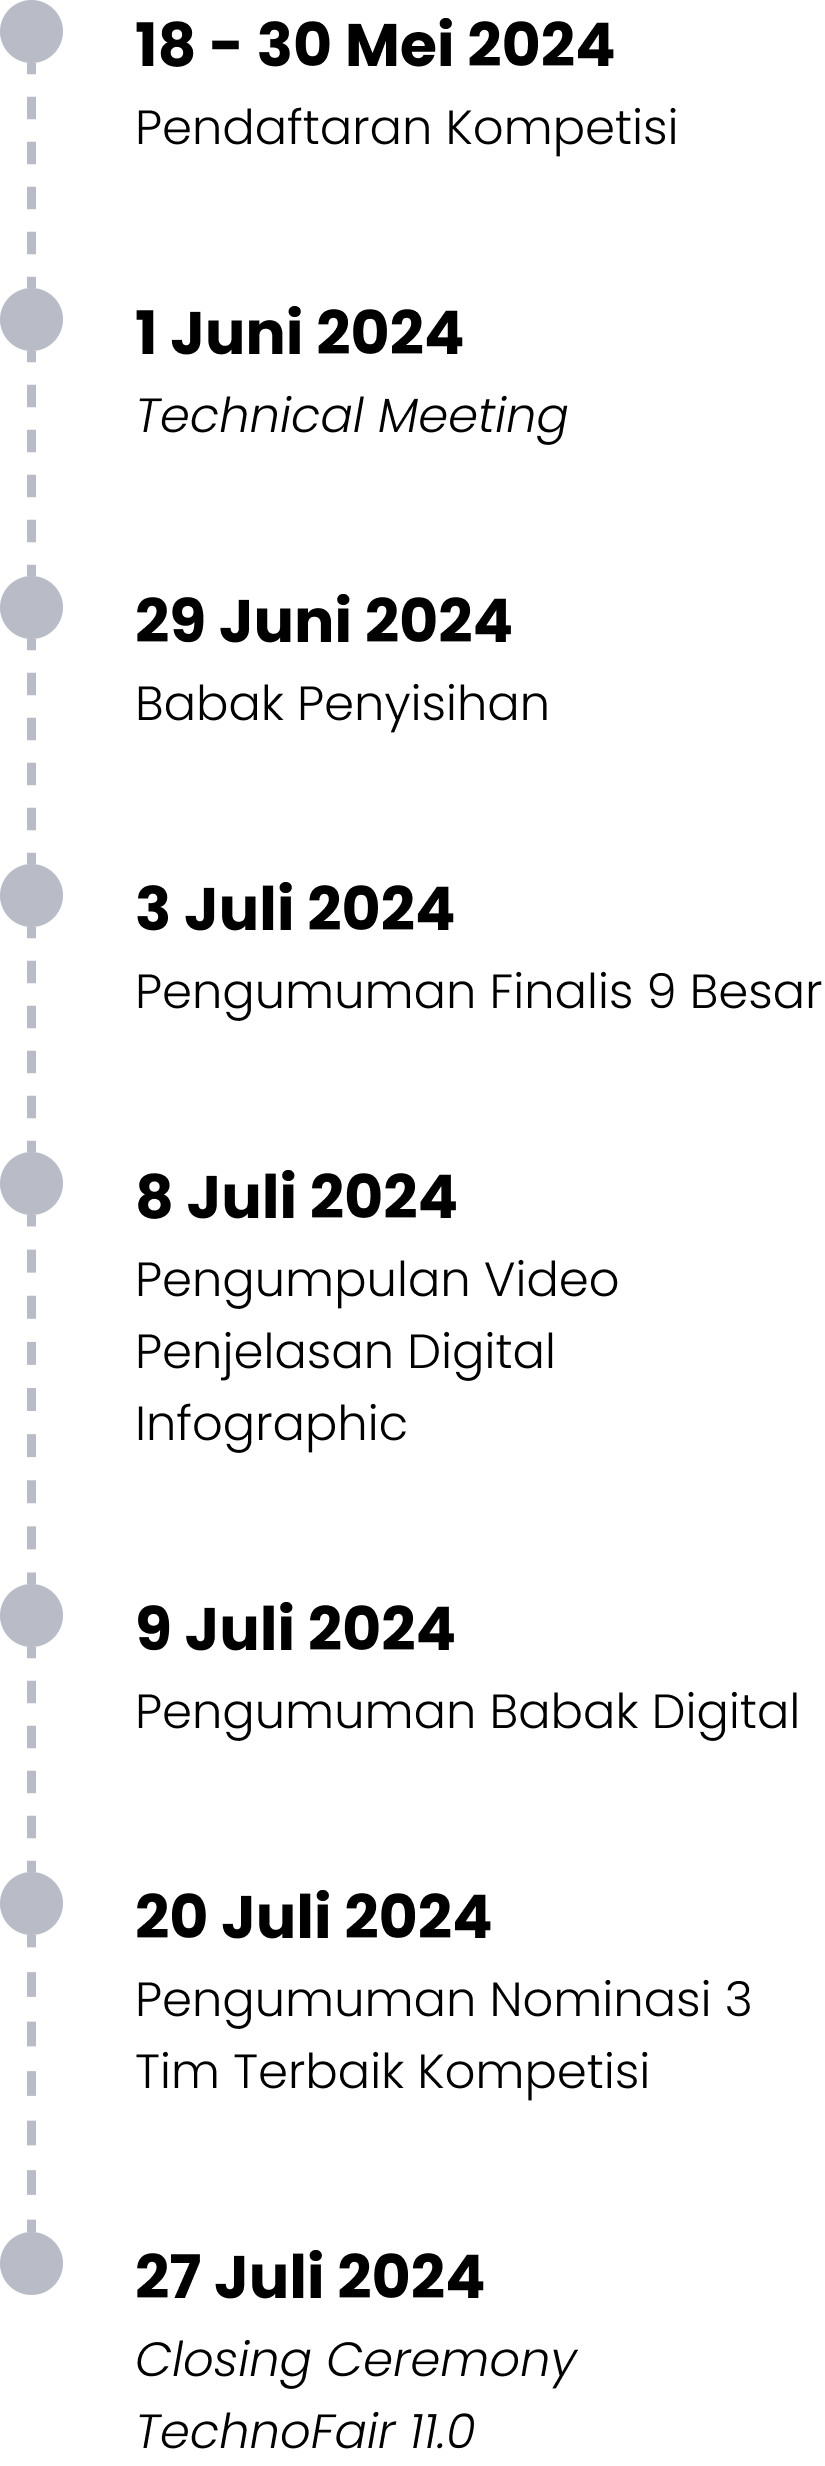
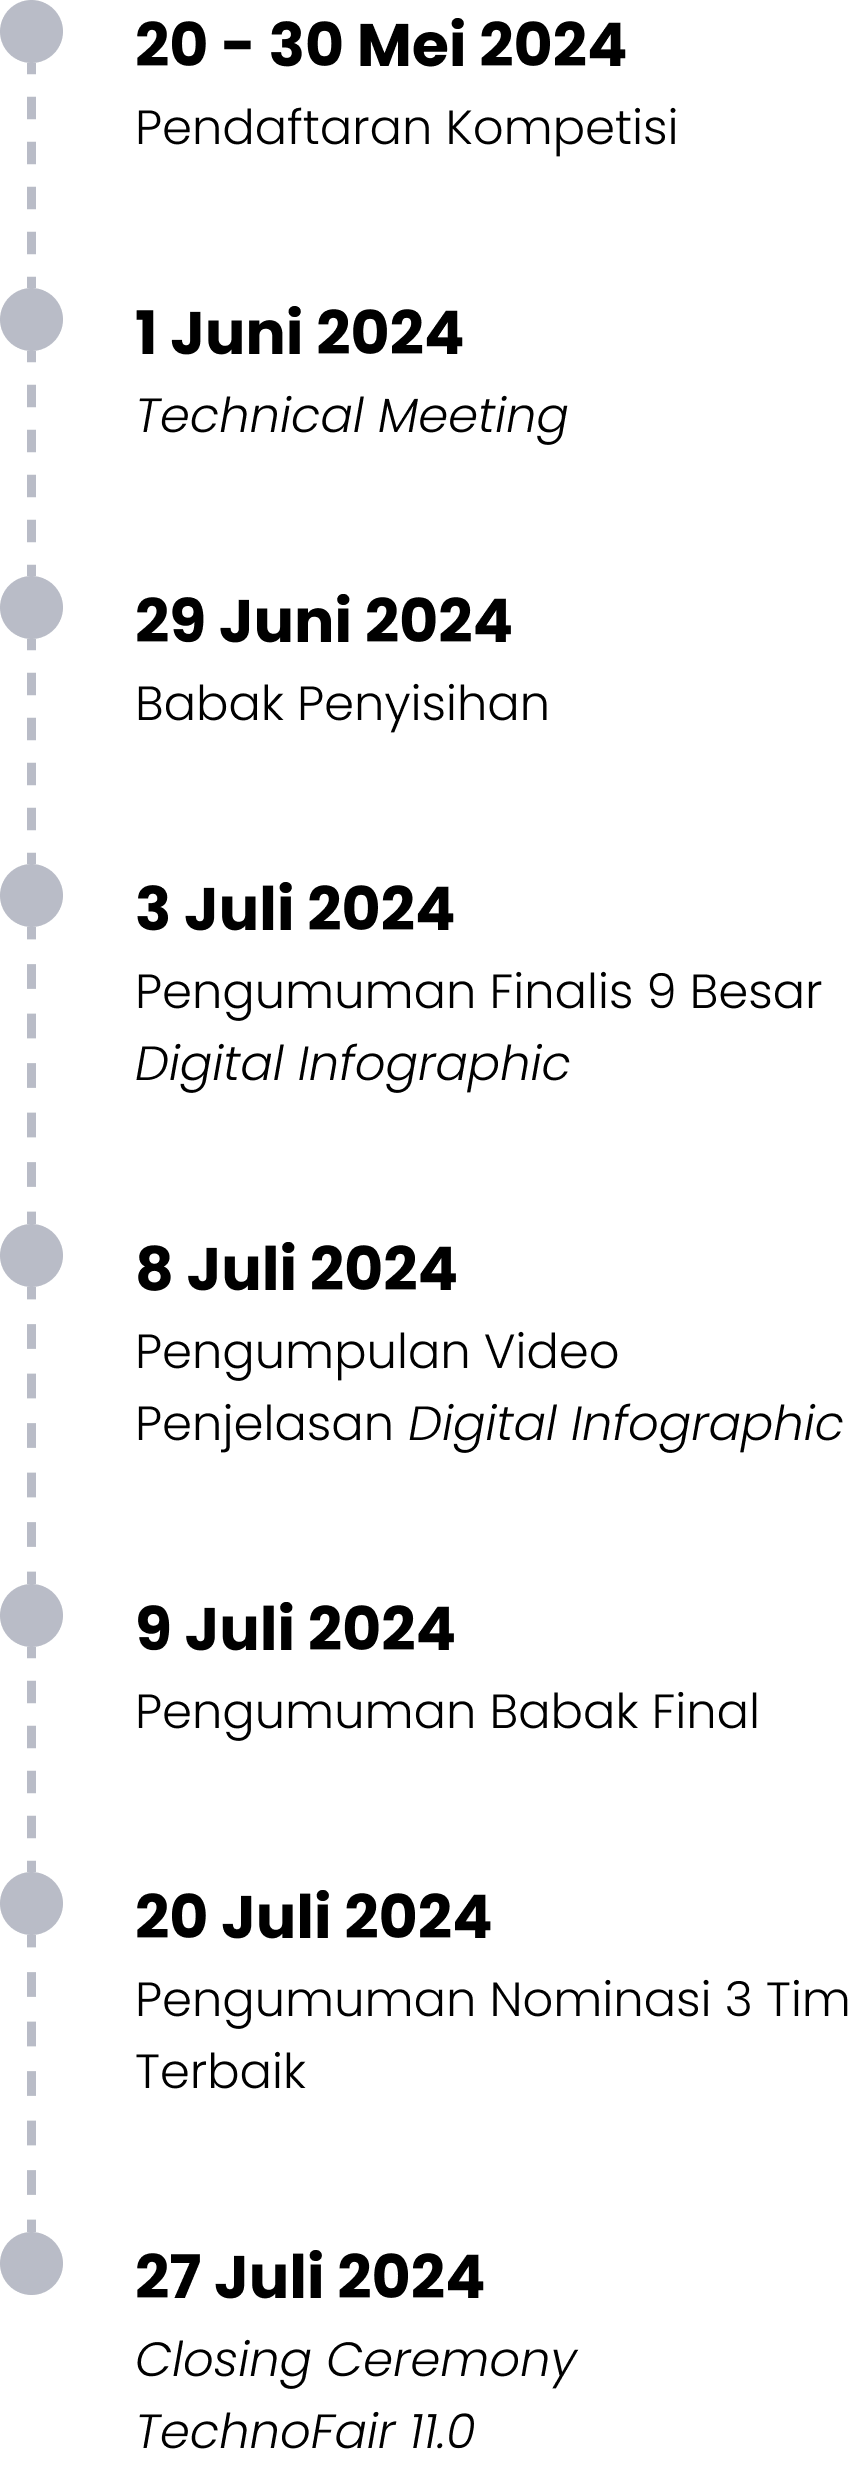
update tanggal

diff --git a/src/components/technofair/details/DigitalInfo.tsx b/src/components/technofair/details/DigitalInfo.tsx
@@ -35,7 +35,7 @@ export default function DigitalInfoPage() {
                 </div>
                 <div className={`text-[#212427] text-lg italic font-light ${poppins.className}`}>&quot;Dynamic Collaboration: Pioneering Future Technologies&quot;</div>
               </div>
-              <div className={`text-[#212427] text-xl font-semibold ${poppins.className} py-2`}>Sabtu, 01 Juni 2024</div>
+              <div className={`text-[#212427] text-xl font-semibold ${poppins.className} py-2`}>Senin, 20 Mei 2024</div>
               <div className="">
                 <p className={`text-lg font-normal ${poppins.className} text-[#212427]`}>
                   Digital Infographic Competition merupakan kompetisi dimana para peserta membuat sebuah poster Digital infografis yang mengandung pesan atau informasi mengenai data-data sesuai tema yang diberikan{' '}
@@ -48,7 +48,7 @@ export default function DigitalInfoPage() {
                 >
                   <p className={`text-[#6C6A67] ${poppins.className} text-base font-semibold`}>Hubungi Kami</p>
                 </Link>
-                <Link href={'https://docs.google.com/forms/d/1745ixauhKbSD-PpMf5rYzE19fxZPiERGV8osbYqX3WA/edit'} className="w-48 h-14 bg-[#21B573] rounded-[16px] border flex justify-center items-center hover:bg-[#1C9760]">
+                <Link href={'https://bit.ly/RegistrationDICTechnoFair11-0'} className="w-48 h-14 bg-[#21B573] rounded-[16px] border flex justify-center items-center hover:bg-[#1C9760]">
                   <p className={`text-[#FEFDFC] ${poppins.className} text-base font-semibold`}>Daftar Sekarang</p>
                 </Link>
                 <div className="mt-9 text-base text-[#212427]">
@@ -89,11 +89,14 @@ export default function DigitalInfoPage() {
                     </div>
                   </div>
                 </div>
-                <Link href={'https://drive.google.com/file/d/1TQ0idskCjTPrR1B6pPyO5zeJOv6y9vM_/view?usp=drive_link'} className="">
+                <Link href={'https://drive.google.com/file/d/1iJalon_mEB8cb0dO0bgZHlM3LWowoEBg/view?usp=drive_link'} className="">
                   <div className="w-72 h-14 bg-[#F7F9FA] rounded-[8px] border-[#B9BCC7] border shadow-lg flex justify-center items-center hover:bg-[#eaeaea]">
                     <p className={`text-center text-[#212427] ${poppins.className}`}>Lihat Rulebook</p>
                   </div>
                 </Link>
+                <div className="py-7">
+                  <Image src={'/technofair/timeline-digitalinfo.png'} alt='timeline digital info' width={289} height={822}/>
+                </div>
               </div>
               <div className="w-5/6">
                 <div className="">
@@ -342,7 +345,7 @@ export default function DigitalInfoPage() {
               <p className={`${poppins.className} text-base italic font-light`}>&quot;Dynamic Collaboration: Pioneering Future Technologies&quot;</p>
             </div>
             <div className="text-[#262626] py-3">
-              <p className={`${poppins.className} text-sm font-medium`}>Sabtu, 01 Juni 2024</p>
+              <p className={`${poppins.className} text-sm font-medium`}>Senin, 20 Mei 2024</p>
             </div>
             <div className="text-sm text-[#212427]">
               <p>
@@ -358,16 +361,19 @@ export default function DigitalInfoPage() {
               >
                 <p className={`text-[#6C6A67] ${poppins.className} text-base font-semibold`}>Hubungi Kami</p>
               </Link>
-              <Link href={'https://docs.google.com/forms/d/1745ixauhKbSD-PpMf5rYzE19fxZPiERGV8osbYqX3WA/edit'} className="w-48 h-14 bg-[#21B573] rounded-[8px] border flex justify-center items-center hover:bg-[#1C9760]">
+              <Link href={'https://bit.ly/RegistrationDICTechnoFair11-0'} className="w-48 h-14 bg-[#21B573] rounded-[8px] border flex justify-center items-center hover:bg-[#1C9760]">
                 <p className={`text-[#FEFDFC] ${poppins.className} text-base font-semibold`}>Daftar Sekarang</p>
               </Link>
             </div>
             <Link
-              href={'https://drive.google.com/file/d/1TQ0idskCjTPrR1B6pPyO5zeJOv6y9vM_/view?usp=drive_link'}
+              href={'https://drive.google.com/file/d/1iJalon_mEB8cb0dO0bgZHlM3LWowoEBg/view?usp=drive_link'}
               className={`w-full h-14 bg-[#FEFDFC] ${poppins.className} rounded-[8px] border flex justify-center items-center hover:bg-[#FAF9F7] shadow-md`}
             >
               <p className="text-[#6c6a67]">Lihat Rulebook</p>
             </Link>
+            <div className="py-3">
+              <Image src={'/technofair/timeline-digitalinfo.png'} alt='timeline digital info' width={259} height={768}/>
+            </div>
           </div>
           <div className="">
             <div className="py-10 px-5">

diff --git a/src/components/technofair/details/UIUXCompe.tsx b/src/components/technofair/details/UIUXCompe.tsx
@@ -35,7 +35,7 @@ export default function UIUXCompePage() {
                 </div>
                 <div className={`text-[#212427] text-lg italic font-light ${poppins.className}`}>Enhancing Modern Visual with UI/UX Design</div>
               </div>
-              <div className={`text-[#212427] text-xl font-semibold ${poppins.className} py-2`}>Sabtu, 01 Juni 2024</div>
+              <div className={`text-[#212427] text-xl font-semibold ${poppins.className} py-2`}>Senin, 20 Mei 2024</div>
               <div className="">
                 <p className={`text-lg font-normal ${poppins.className} text-[#212427]`}>
                   <em>UI/UX Design Competition</em> adalah salah satu kompetisi untuk menunjukkan bakat dan kemampuan peserta dalam membangun desain antarmuka sistem/produk yang berorientasi kepada kenyamanan dan kemudahan pengguna (user)
@@ -49,7 +49,7 @@ export default function UIUXCompePage() {
                 >
                   <p className={`text-[#6C6A67] ${poppins.className} text-base font-semibold`}>Hubungi Kami</p>
                 </Link>
-                <Link href={'https://docs.google.com/forms/d/1SNT6S5bN1iLsRDJDZohjhraXtT2-uiUggg090eQu3mQ/viewform?edit_requested=true'} className="w-48 h-14 bg-[#21B573] rounded-[16px] border flex justify-center items-center hover:bg-[#1C9760]">
+                <Link href={'https://bit.ly/RegistrationUIUXTechnoFair11-0'} className="w-48 h-14 bg-[#21B573] rounded-[16px] border flex justify-center items-center hover:bg-[#1C9760]">
                   <p className={`text-[#FEFDFC] ${poppins.className} text-base font-semibold`}>Daftar Sekarang</p>
                 </Link>
                 <div className="mt-9 text-base text-[#212427]">
@@ -86,11 +86,14 @@ export default function UIUXCompePage() {
                     </div>
                   </div>
                 </div>
-                <Link href={'https://drive.google.com/drive/folders/1E-AU-L_NfF9NMD1DtIVYQLuylwbDpUuY?usp=drive_link'} className="">
+                <Link href={'https://drive.google.com/file/d/1Y-MZrxtNFelT7wPA3VEKScldD45dMt_1/view?usp=drive_link'} className="">
                   <div className="w-72 h-14 bg-[#F7F9FA] rounded-[8px] border-[#B9BCC7] border shadow-lg flex justify-center items-center hover:bg-[#eaeaea]">
                     <p className={`text-center text-[#212427] ${poppins.className}`}>Lihat Rulebook</p>
                   </div>
                 </Link>
+                <div className="py-7">
+                  <Image src={'/technofair/timeline-uiuxcompe.png'} alt='timeline uiux' width={289} height={765}/>
+                </div>
               </div>
               <div className="w-5/6">
                 <div className="">
@@ -357,7 +360,7 @@ export default function UIUXCompePage() {
               <p className={`${poppins.className} text-base italic font-light`}>Enhancing Modern Visual with UI/UX Design</p>
             </div>
             <div className="text-[#262626] py-3">
-              <p className={`${poppins.className} text-sm font-medium`}>Sabtu, 01 Juni 2024</p>
+              <p className={`${poppins.className} text-sm font-medium`}>Senin, 20 Mei 2024</p>
             </div>
             <div className="text-sm text-[#212427]">
               <p>
@@ -373,16 +376,19 @@ export default function UIUXCompePage() {
               >
                 <p className={`text-[#6C6A67] ${poppins.className} text-base font-semibold`}>Hubungi Kami</p>
               </Link>
-              <Link href={'https://docs.google.com/forms/d/1SNT6S5bN1iLsRDJDZohjhraXtT2-uiUggg090eQu3mQ/viewform?edit_requested=true'} className="w-48 h-14 bg-[#21B573] rounded-[8px] border flex justify-center items-center hover:bg-[#1C9760]">
+              <Link href={'https://bit.ly/RegistrationUIUXTechnoFair11-0'} className="w-48 h-14 bg-[#21B573] rounded-[8px] border flex justify-center items-center hover:bg-[#1C9760]">
                 <p className={`text-[#FEFDFC] ${poppins.className} text-base font-semibold`}>Daftar Sekarang</p>
               </Link>
             </div>
             <Link
-              href={'https://drive.google.com/drive/folders/1E-AU-L_NfF9NMD1DtIVYQLuylwbDpUuY?usp=drive_link'}
+              href={'https://drive.google.com/file/d/1Y-MZrxtNFelT7wPA3VEKScldD45dMt_1/view?usp=drive_link'}
               className={`w-full h-14 bg-[#FEFDFC] ${poppins.className} rounded-[8px] border flex justify-center items-center hover:bg-[#FAF9F7] shadow-md`}
             >
               <p className="text-[#6c6a67]">Lihat Rulebook</p>
             </Link>
+            <div className="py-3">
+              <Image src={'/technofair/timeline-uiuxcompe.png'} alt='timeline uiux' width={259} height={765}/>
+            </div>
           </div>
           <div className="">
             <div className="py-10 px-5">

diff --git a/src/components/technofair/details/CompProg.tsx b/src/components/technofair/details/CompProg.tsx
@@ -52,9 +52,12 @@ export default function CaptureTheFlagPage() {
                 >
                   <p className={`text-[#6C6A67] ${poppins.className} text-base font-semibold`}>Hubungi Kami</p>
                 </Link>
-                <Link href={'https://docs.google.com/forms/d/1xp_ZFuEkN7Eiu5MbpfXezdrChtPoUra5kzoVxqiypp8/edit?ts=66460c90'} className="w-48 h-14 bg-[#21B573] rounded-[16px] border flex justify-center items-center hover:bg-[#1C9760]">
+                <button onClick={() => toast.error('Coming Soon')} className="w-48 h-14 bg-[#21B573] rounded-[16px] border flex justify-center items-center hover:bg-[#1C9760]">
                   <p className={`text-[#FEFDFC] ${poppins.className} text-base font-semibold`}>Daftar Sekarang</p>
-                </Link>
+                </button>
+                {/* <Link href={'https://docs.google.com/forms/d/1xp_ZFuEkN7Eiu5MbpfXezdrChtPoUra5kzoVxqiypp8/edit?ts=66460c90'} className="w-48 h-14 bg-[#21B573] rounded-[16px] border flex justify-center items-center hover:bg-[#1C9760]">
+                  <p className={`text-[#FEFDFC] ${poppins.className} text-base font-semibold`}>Daftar Sekarang</p>
+                </Link> */}
                 <div className="mt-9 text-base text-[#212427]">
                   <p>
                     <strong>Rp 80.000</strong>/Tim
@@ -90,6 +93,9 @@ export default function CaptureTheFlagPage() {
                     <p className={`text-center text-[#212427] ${poppins.className}`}>Lihat Rulebook</p>
                   </div>
                 </button>
+                <div className="py-7">
+                  <Image src={'/technofair/timeline-comprog.png'} alt='timeline competitive programming' width={275} height={768}/>
+                </div>
                 {/* <Link href={'https://drive.google.com/drive/folders/1UFrhbUsT0tqQWJPFqwHWulhCp7lH9vRc?usp=drive_link'} className="">
                   <div className="w-72 h-14 bg-[#F7F9FA] rounded-[8px] border-[#B9BCC7] border shadow-lg flex justify-center items-center hover:bg-[#eaeaea]">
                     <p className={`text-center text-[#212427] ${poppins.className}`}>Lihat Rulebook</p>
@@ -264,9 +270,9 @@ export default function CaptureTheFlagPage() {
               >
                 <p className={`text-[#6C6A67] ${poppins.className} text-base font-semibold`}>Hubungi Kami</p>
               </Link>
-              <Link href={'https://docs.google.com/forms/d/1xp_ZFuEkN7Eiu5MbpfXezdrChtPoUra5kzoVxqiypp8/edit?ts=66460c90'} className="w-48 h-14 bg-[#21B573] rounded-[8px] border flex justify-center items-center hover:bg-[#1C9760]">
+              <button onClick={() => toast.error('Coming Soon')} className="w-48 h-14 bg-[#21B573] rounded-[8px] border flex justify-center items-center hover:bg-[#1C9760]">
                 <p className={`text-[#FEFDFC] ${poppins.className} text-base font-semibold`}>Daftar Sekarang</p>
-              </Link>
+              </button>
             </div>
             <button onClick={() => toast.error('Coming Soon')} className={`w-full h-14 bg-[#FEFDFC] ${poppins.className} rounded-[8px] border flex justify-center items-center hover:bg-[#FAF9F7] shadow-md`}>
               <p className='text-[#6c6a67]'>Lihat Rulebook</p>
@@ -274,6 +280,9 @@ export default function CaptureTheFlagPage() {
             {/* <Link href={'https://drive.google.com/drive/folders/1UFrhbUsT0tqQWJPFqwHWulhCp7lH9vRc?usp=drive_link'} className={`w-full h-14 bg-[#FEFDFC] ${poppins.className} rounded-[8px] border flex justify-center items-center hover:bg-[#FAF9F7] shadow-md`}>
               <p className='text-[#6c6a67]'>Lihat Rulebook</p>
             </Link> */}
+            <div className="py-3">
+              <Image src={'/technofair/timeline-comprog.png'} alt='timeline comprog' width={256} height={568}/>
+            </div>
           </div>
           <div className="">
             <div className="py-10 px-5">

diff --git a/src/components/technofair/details/CTF.tsx b/src/components/technofair/details/CTF.tsx
@@ -51,9 +51,12 @@ export default function CaptureTheFlagPage() {
                 >
                   <p className={`text-[#6C6A67] ${poppins.className} text-base font-semibold`}>Hubungi Kami</p>
                 </Link>
-                <Link href={'https://docs.google.com/forms/d/10Xj6u0p0ykHcUwsDVXA__O1ZiuBWjwgVU2wXfJRm0ao/edit'} className="w-48 h-14 bg-[#21B573] rounded-[16px] border flex justify-center items-center hover:bg-[#1C9760]">
+                <button onClick={() => toast.error('Coming Soon')} className="w-48 h-14 bg-[#21B573] rounded-[16px] border flex justify-center items-center hover:bg-[#1C9760]">
                   <p className={`text-[#FEFDFC] ${poppins.className} text-base font-semibold`}>Daftar Sekarang</p>
-                </Link>
+                </button>
+                {/* <Link href={'https://docs.google.com/forms/d/10Xj6u0p0ykHcUwsDVXA__O1ZiuBWjwgVU2wXfJRm0ao/edit'} className="w-48 h-14 bg-[#21B573] rounded-[16px] border flex justify-center items-center hover:bg-[#1C9760]">
+                  <p className={`text-[#FEFDFC] ${poppins.className} text-base font-semibold`}>Daftar Sekarang</p>
+                </Link> */}
                 <div className="mt-9 text-base text-[#212427]">
                   <p>
                     <strong>Rp 80.000</strong>/Tim
@@ -289,9 +292,12 @@ export default function CaptureTheFlagPage() {
               >
                 <p className={`text-[#6C6A67] ${poppins.className} text-base font-semibold`}>Hubungi Kami</p>
               </Link>
-              <Link href={'https://docs.google.com/forms/d/10Xj6u0p0ykHcUwsDVXA__O1ZiuBWjwgVU2wXfJRm0ao/edit'} className="w-48 h-14 bg-[#21B573] rounded-[8px] border flex justify-center items-center hover:bg-[#1C9760]">
+              <button onClick={() => toast.error('Coming Soon')} className="w-48 h-14 bg-[#21B573] rounded-[8px] border flex justify-center items-center hover:bg-[#1C9760]">
                 <p className={`text-[#FEFDFC] ${poppins.className} text-base font-semibold`}>Daftar Sekarang</p>
-              </Link>
+              </button>
+              {/* <Link href={'https://docs.google.com/forms/d/10Xj6u0p0ykHcUwsDVXA__O1ZiuBWjwgVU2wXfJRm0ao/edit'} className="w-48 h-14 bg-[#21B573] rounded-[8px] border flex justify-center items-center hover:bg-[#1C9760]">
+                <p className={`text-[#FEFDFC] ${poppins.className} text-base font-semibold`}>Daftar Sekarang</p>
+              </Link> */}
             </div>
             <button onClick={() => toast.error('Coming Soon')} className={`w-full h-14 bg-[#FEFDFC] ${poppins.className} rounded-[8px] border flex justify-center items-center hover:bg-[#FAF9F7] shadow-md`}>
               <p className='text-[#6c6a67]'>Lihat Rulebook</p>

diff --git a/src/components/technofair/event.tsx b/src/components/technofair/event.tsx
@@ -260,7 +260,7 @@ export default function EventPage() {
                       <div className="">
                         <div className="grid grid-flow-col gap-2">
                           <Image src={'/technofair/kalender.png'} alt="kalender" width={20} height={16} />
-                          <p className="text-[#b9bcc7] text-sm mt-1 pr-14">June 1 - July 27 2024</p>
+                          <p className="text-[#b9bcc7] text-sm mt-1 pr-12">May 20 - July 27 2024</p>
                         </div>
                       </div>
                       <div className="grid grid-flow-col gap-2 py-4">
@@ -291,7 +291,7 @@ export default function EventPage() {
                       <div className="">
                         <div className="grid grid-flow-col">
                           <Image src={'/technofair/kalender.png'} alt="kalender" width={20} height={16} />
-                          <p className="text-[#b9bcc7] text-sm mt-1 pr-12">June 1 - July 27 2024</p>
+                          <p className="text-[#b9bcc7] text-sm mt-1 pr-10">May 20 - July 27 2024</p>
                         </div>
                       </div>
                       <div className="grid grid-flow-col py-4">
@@ -527,7 +527,7 @@ export default function EventPage() {
                     <div className="grid grid-flow-row gap-y-2">
                       <div className="grid grid-flow-col">
                         <Image src={'/technofair/kalender.png'} alt="kalender" width={16} height={17} />
-                        <p className="text-sm text-[#B9BCC7] mr-4">June 1 - July 27 2024</p>
+                        <p className="text-sm text-[#B9BCC7] mr-2">May 20 - July 27 2024</p>
                       </div>
                       <div className="grid grid-flow-col">
                         <Image src={'/technofair/internet.png'} alt="internet" width={16} height={16} />
@@ -552,7 +552,7 @@ export default function EventPage() {
                     <div className="grid grid-flow-row gap-y-2">
                       <div className="grid grid-flow-col">
                         <Image src={'/technofair/kalender.png'} alt="kalender" width={16} height={17} />
-                        <p className="text-sm text-[#B9BCC7] mr-4">June 1 - July 27 2024</p>
+                        <p className="text-sm text-[#B9BCC7] mr-2">May 20 - July 27 2024</p>
                       </div>
                       <div className="grid grid-flow-col">
                         <Image src={'/technofair/internet.png'} alt="internet" width={16} height={16} />

diff --git a/src/components/technofair/schedule.tsx b/src/components/technofair/schedule.tsx
@@ -238,7 +238,7 @@ const items: any = [
           <div className="md:py-0 py-3">
             <div className="flex justify-between items-center md:p-2">
               <div className="">
-                <p className="font-bold md:text-base text-xs text-[#FFF4E7]">June 01 - July 09, 2024</p>
+                <p className="font-bold md:text-base text-xs text-[#FFF4E7]">May 20 - July 27, 2024</p>
                 <p className="font-light md:text-xs text-xs">Hybrid</p>
               </div>
               <div className="md:w-72 w-56">
@@ -261,7 +261,7 @@ const items: any = [
           <div className="md:py-0 py-3">
             <div className="flex justify-between items-center md:p-2">
               <div className="">
-                <p className="font-bold md:text-base text-xs text-[#FFF4E7]">June 01 - July 13, 2024</p>
+                <p className="font-bold md:text-base text-xs text-[#FFF4E7]">May 20 - July 27, 2024</p>
                 <p className="font-light md:text-sm text-xs">Hybrid</p>
               </div>
               <div className="md:w-72 w-56">
